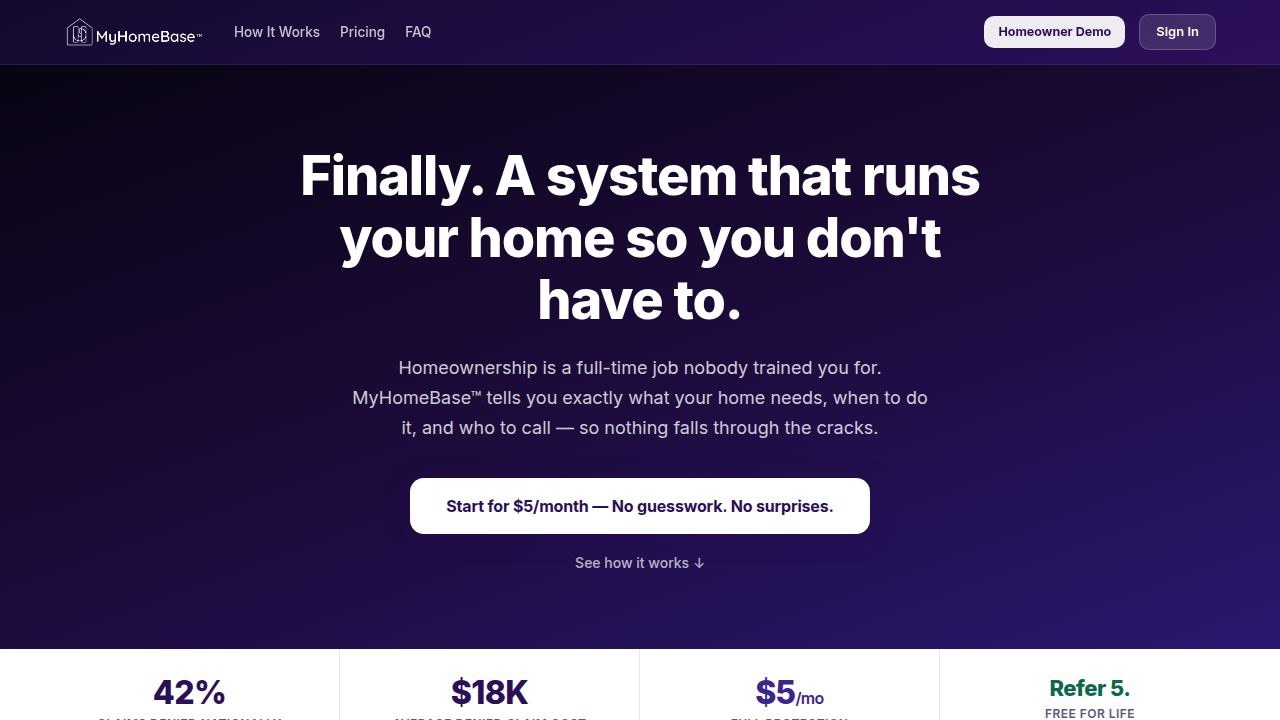
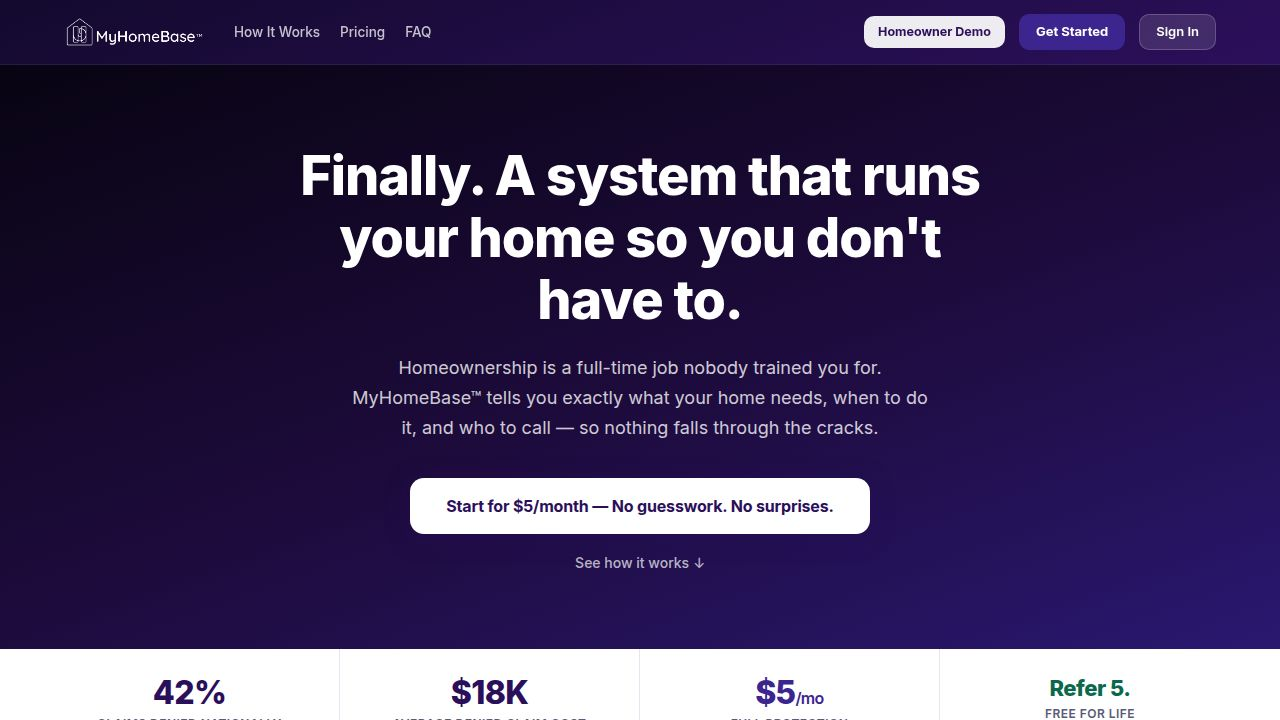
Add ability to preview onboarding tour screens with sample data
Modify onboarding.html to accept a screen query parameter for previewing specific screens with dummy data and update vite.config.ts to correctly route requests for the onboarding page, including those with query parameters.

Replit-Commit-Author: Agent
Replit-Commit-Session-Id: 3eb3ce50-1d0b-40fd-8711-a14be58a275c
Replit-Commit-Checkpoint-Type: full_checkpoint
Replit-Commit-Event-Id: 8985c9ca-1400-4d69-b509-a0998473c51b
Replit-Commit-Screenshot-Url: https://storage.googleapis.com/screenshot-production-us-central1/1b6d563c-f6b4-422c-a32f-0b12e8931ee1/3eb3ce50-1d0b-40fd-8711-a14be58a275c/p9O58Pu
Replit-Helium-Checkpoint-Created: true

Changed region(s): [[0.6562, 0.0, 0.9062, 0.0917]]

diff --git a/artifacts/myhomebase/public/onboarding.html b/artifacts/myhomebase/public/onboarding.html
@@ -1502,6 +1502,22 @@ function initTour() {
 function goToDashboard() {
   alert('🎉 Welcome to MyHomeBase™!\n\nIn the full app, this would take you to your personalized dashboard.');
 }
+
+// Preview: jump to any screen via ?screen=N with sample data
+(function() {
+  const sp = new URLSearchParams(location.search);
+  const n = parseInt(sp.get('screen'));
+  if (n >= 2 && n <= 6) {
+    state.confirmed = '742 Evergreen Terrace, Springfield, IL 62701';
+    state.yearBuilt = 1987; state.bedrooms = 4; state.bathrooms = 2;
+    state.sqft = 2100; state.lotSqft = 7200;
+    state.propertyType = 'Single Family Residence';
+    state.lastSaleDate = '2019-06-15'; state.lastSalePrice = 285000;
+    state.assessedValue = 265000; state.estimatedValue = 312000;
+    state.hws = calcHWS(state.yearBuilt);
+    goTo(n);
+  }
+})();
 </script>
 </body>
 </html>

diff --git a/artifacts/myhomebase/vite.config.ts b/artifacts/myhomebase/vite.config.ts
@@ -143,8 +143,8 @@ function onboardingRoutePlugin(): Plugin {
     name: "onboarding-route",
     configureServer(server) {
       server.middlewares.use((req, _res, next) => {
-        if (req.url === "/onboarding" || req.url === "/onboarding?") {
-          req.url = "/onboarding.html";
+        if (req.url && (req.url === "/onboarding" || req.url.startsWith("/onboarding?") || req.url.startsWith("/onboarding/"))) {
+          req.url = "/onboarding.html" + (req.url.includes("?") ? req.url.slice(req.url.indexOf("?")) : "");
         }
         next();
       });